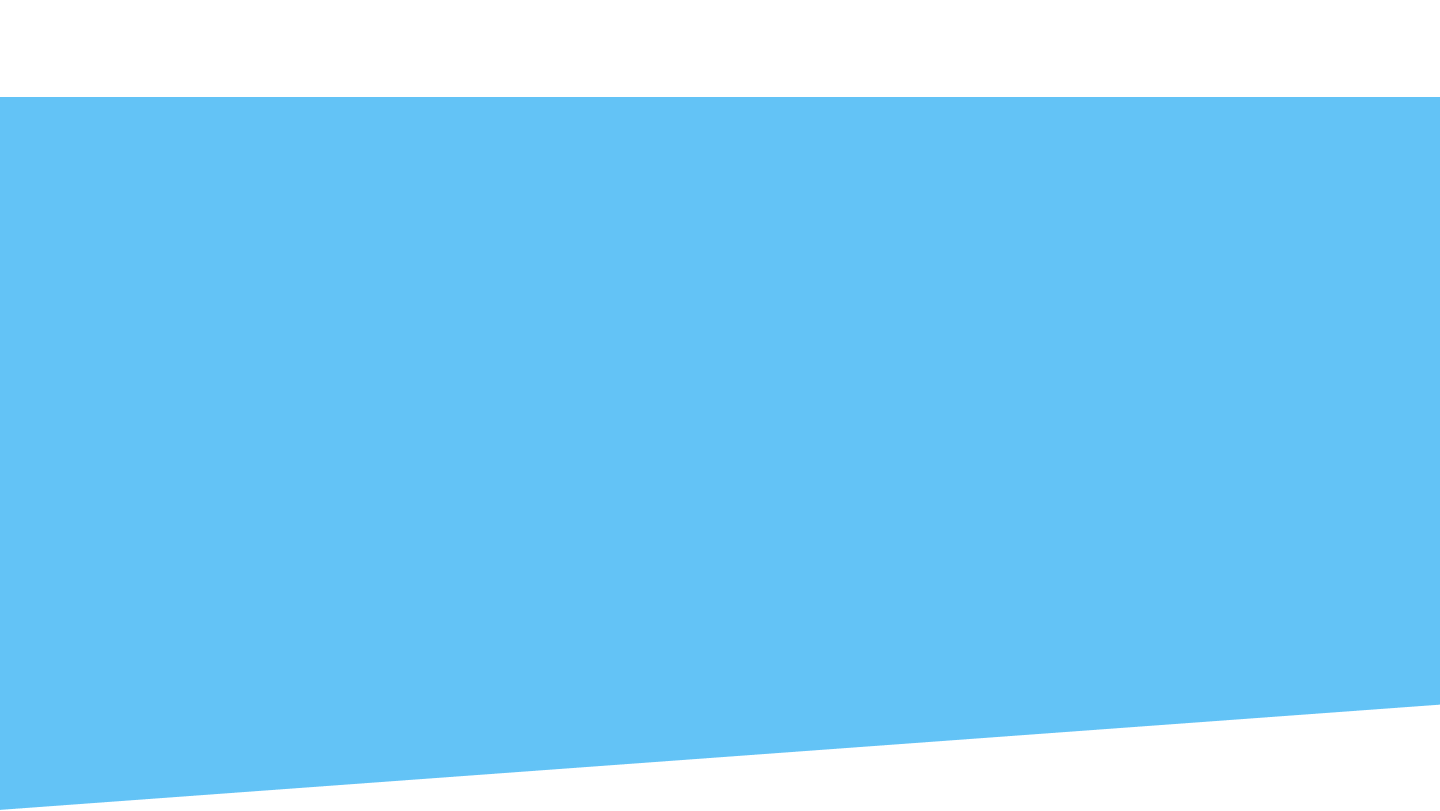
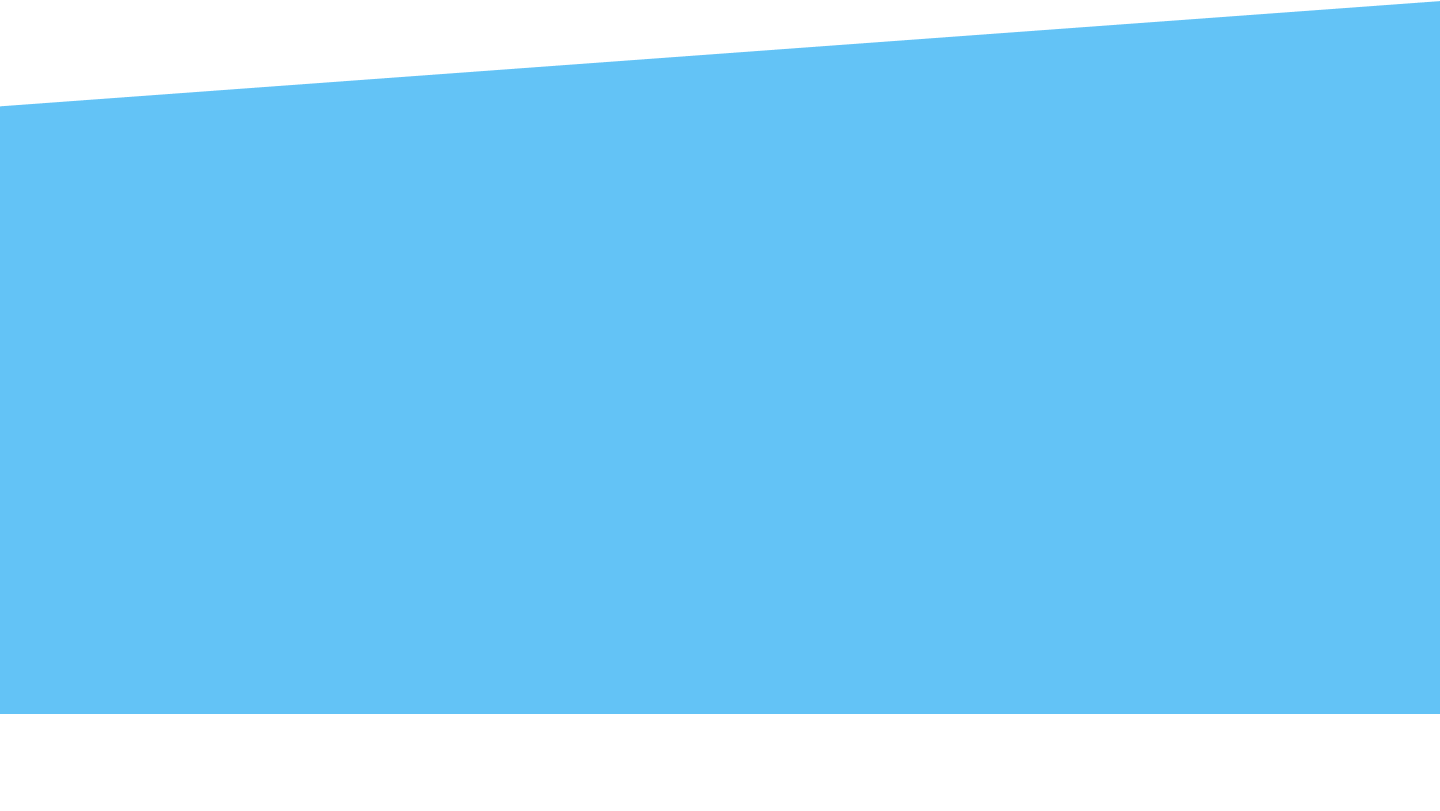
Made the image bottom straight

diff --git a/src/App.js b/src/App.js
@@ -14,7 +14,7 @@ function App() {
         <Nav />
         <div className="pages">
           <Switch>
-            <Route exact path="/" component={Home} />
+            <Route exact path="/" component = {Home} />
             <Route path="/about" component={About} />
             <Route path="/people" component={People} />
           </Switch>

diff --git a/src/components/HomeBox/HomeBox.css b/src/components/HomeBox/HomeBox.css
@@ -35,7 +35,7 @@
         height: 712.9838743422771px;
     width: 1550.939304132398px;
     left: 240px;
-    top: -100px;
+    top: -110px;
     border-radius: 0px;
     position: relative;
     }
